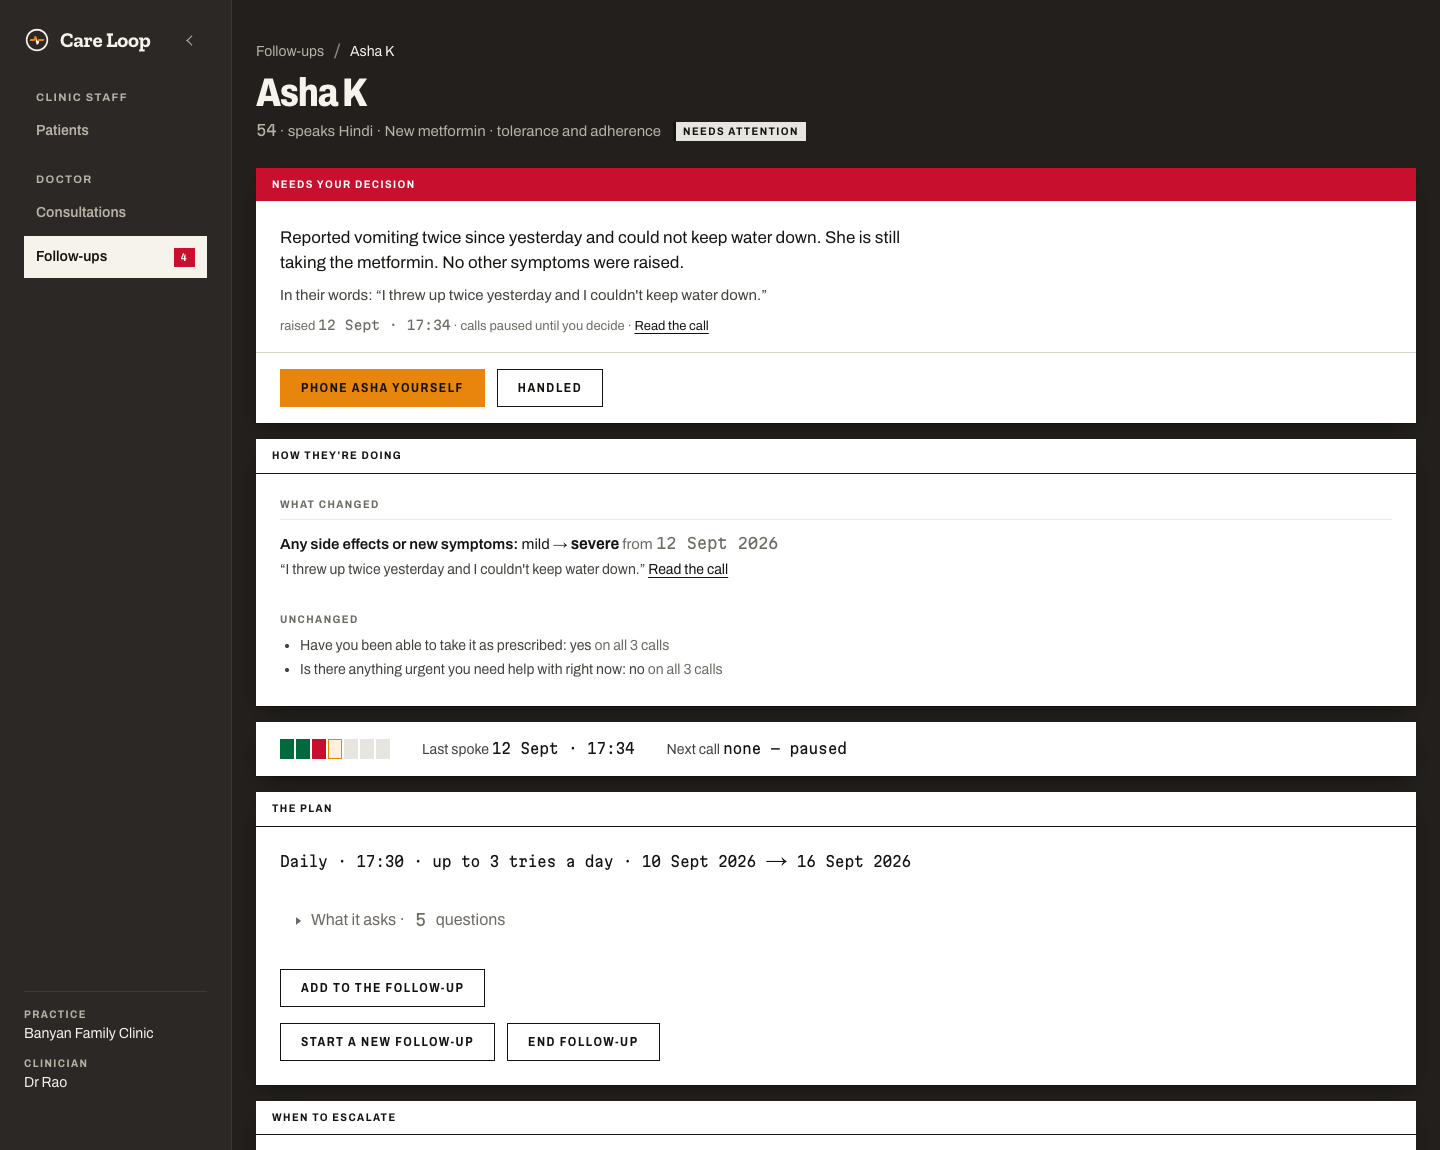
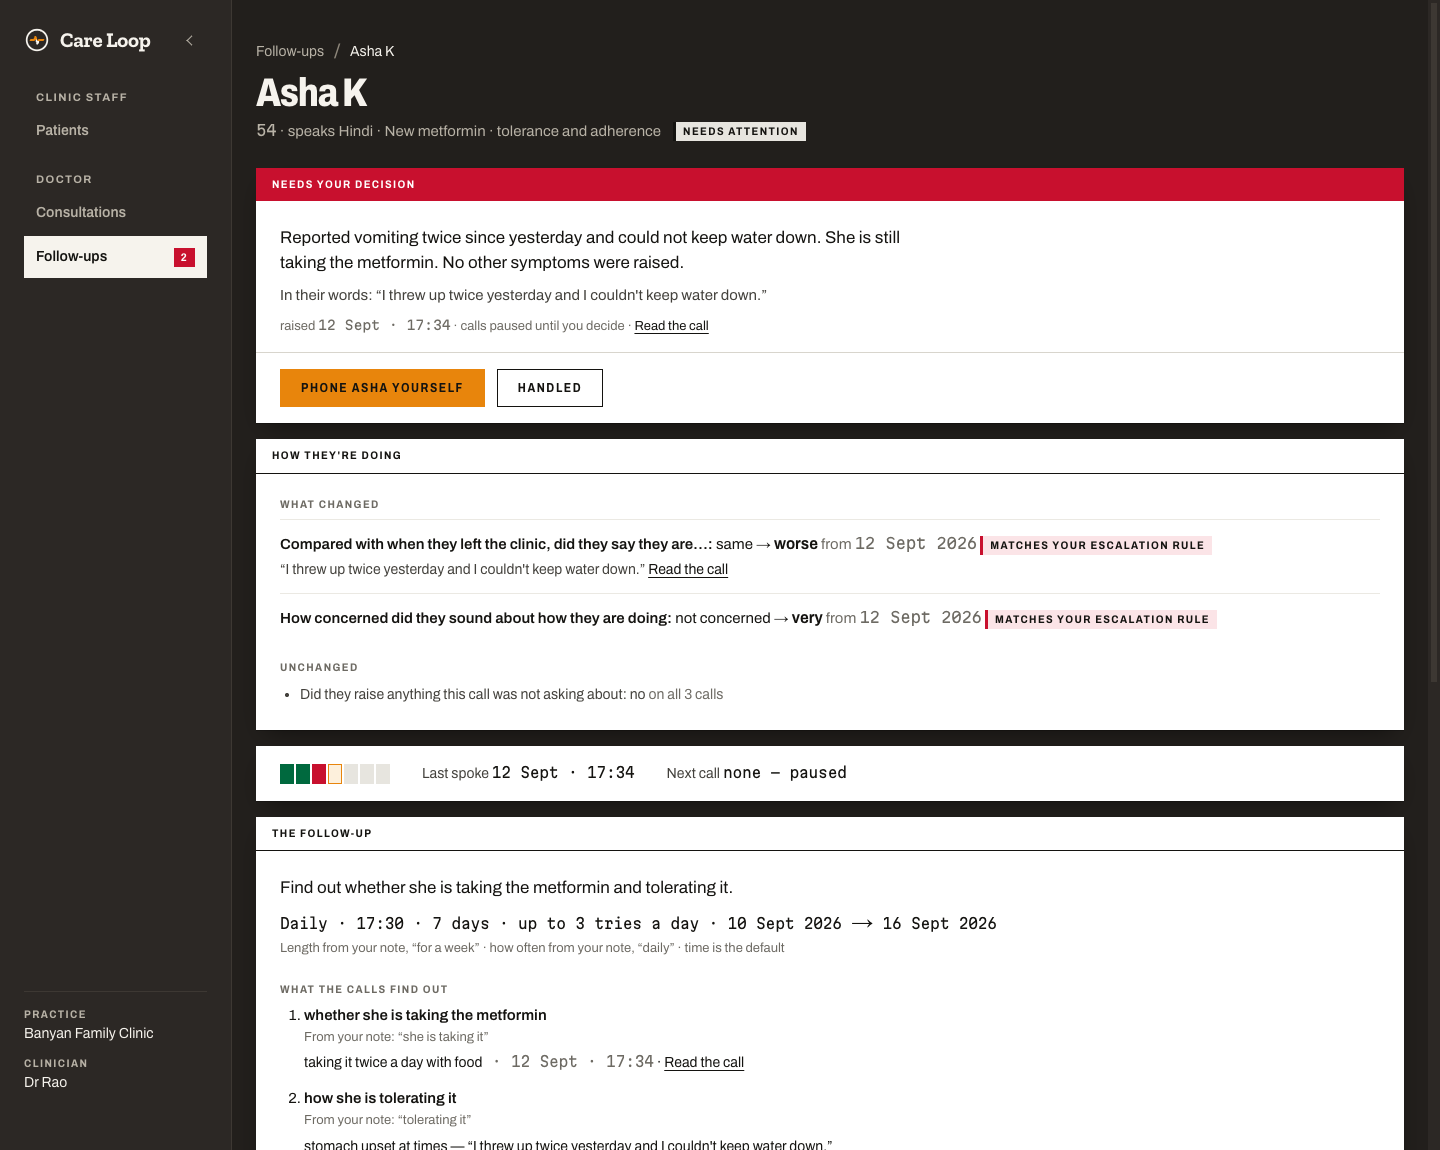
goal based calls

Changed region(s): [[0.1562, 0.0, 1.0, 1.0], [0.1875, 0.4565, 0.8438, 0.487], [0.625, 0.7913, 0.6875, 0.8217]]

diff --git a/app/(console)/consult/page.tsx b/app/(console)/consult/page.tsx
@@ -246,7 +246,7 @@ export default async function ConsultPage({
           <p className="measure" style={{ margin: 0, padding: "calc(var(--cell) * 3)", fontSize: 14 }}>
             Nobody is booked for today. The front desk registers a patient from Patients and
             books the visit; it appears here on that day until you write its note. The follow-up
-            is compiled from that note, and nothing is dialled until you approve it.
+            is read from that note, and its calls start when you save it.
           </p>
         </Panel>
       ) : null}

diff --git a/app/(console)/patients/[id]/page.tsx b/app/(console)/patients/[id]/page.tsx
@@ -119,8 +119,8 @@ export default async function PatientPage({
             fontSize: 15,
           }}
         >
-          <strong>{patient.name} added.</strong> They will not be called until a follow-up plan
-          has been written and the doctor has approved it.
+          <strong>{patient.name} added.</strong> They will not be called until the doctor writes
+          their consultation note and starts a follow-up from it.
         </p>
       ) : null}
 

diff --git a/app/(console)/register/page.tsx b/app/(console)/register/page.tsx
@@ -67,7 +67,7 @@ export default async function RegisterPage({
         <p className="measure" style={{ margin: 0, color: "var(--bench-ink-2)" }}>
           Book the appointment day. On that day the patient is on the doctor&rsquo;s
           Consultations list, where the follow-up note is written. Nothing is
-          dialled until that note is approved.
+          dialled until the doctor saves that note and starts the follow-up.
         </p>
       </header>
 

diff --git a/app/(console)/dashboard/page.tsx b/app/(console)/dashboard/page.tsx
@@ -85,7 +85,7 @@ export default async function FollowUpsPage() {
       {rows.length === 0 ? (
         <Panel title="Nobody yet">
           <p style={{ margin: 0, padding: "calc(var(--cell) * 3)", color: "var(--print-2)" }}>
-            A patient appears here once you approve a plan from their consultation.
+            A patient appears here once you save and start a follow-up from their consultation.
           </p>
         </Panel>
       ) : (

diff --git a/components/CallLog.tsx b/components/CallLog.tsx
@@ -63,7 +63,7 @@ export function CallLog({
           fontSize: 14,
         }}
       >
-        No calls yet. Occurrences appear here the moment a plan is approved,
+        No calls yet. Occurrences appear here the moment a follow-up starts,
         dated, one row per day — before anything is dialled.
       </p>
     );

diff --git a/README.md b/README.md
@@ -46,7 +46,7 @@ for a week.**
 |---|---|
 | ![Consultations](docs/screenshots/consultations.png) | ![Writing the note](docs/screenshots/write-note.png) |
 | **Consultations** — the doctor’s day | **The note** — free text, plus what should escalate |
-| ![The compiled plan](docs/screenshots/plan-review.png) | ![The patient record](docs/screenshots/patient-record.png) |
+| ![The follow-up — what the calls find out, from the note's own words](docs/screenshots/follow-up.png) | ![The patient record](docs/screenshots/patient-record.png) |
 | **The compiled plan** — every value says where it came from | **The patient record** — what changed, in their words |
 
 ---
